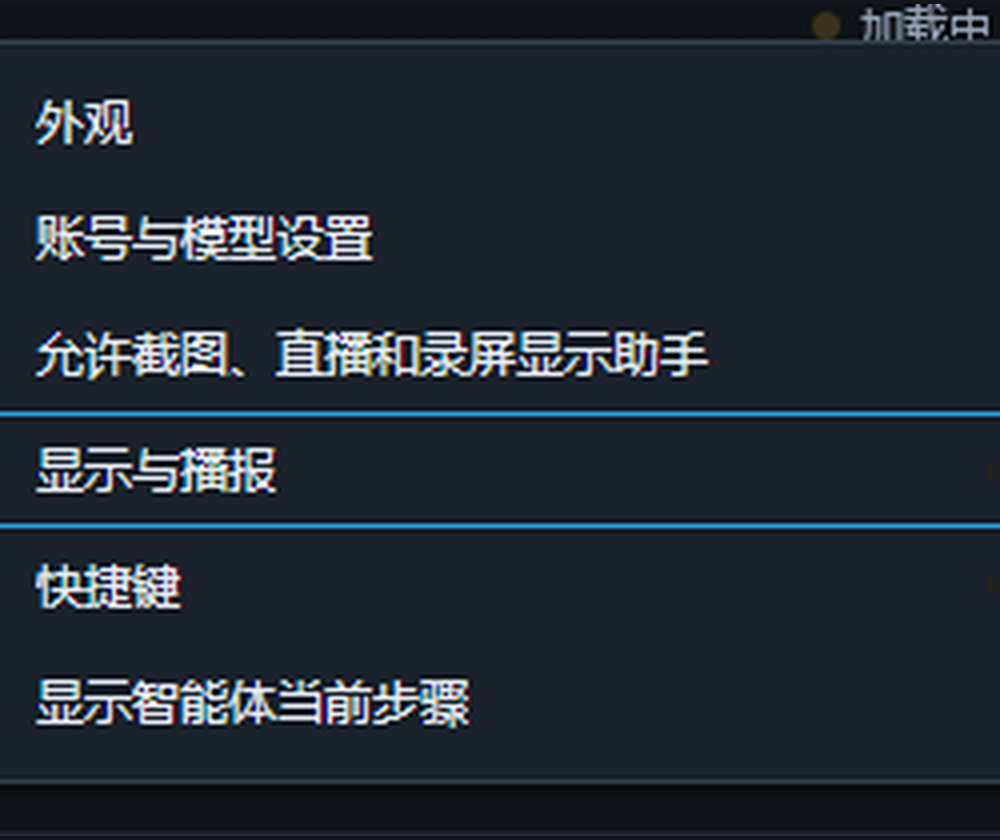
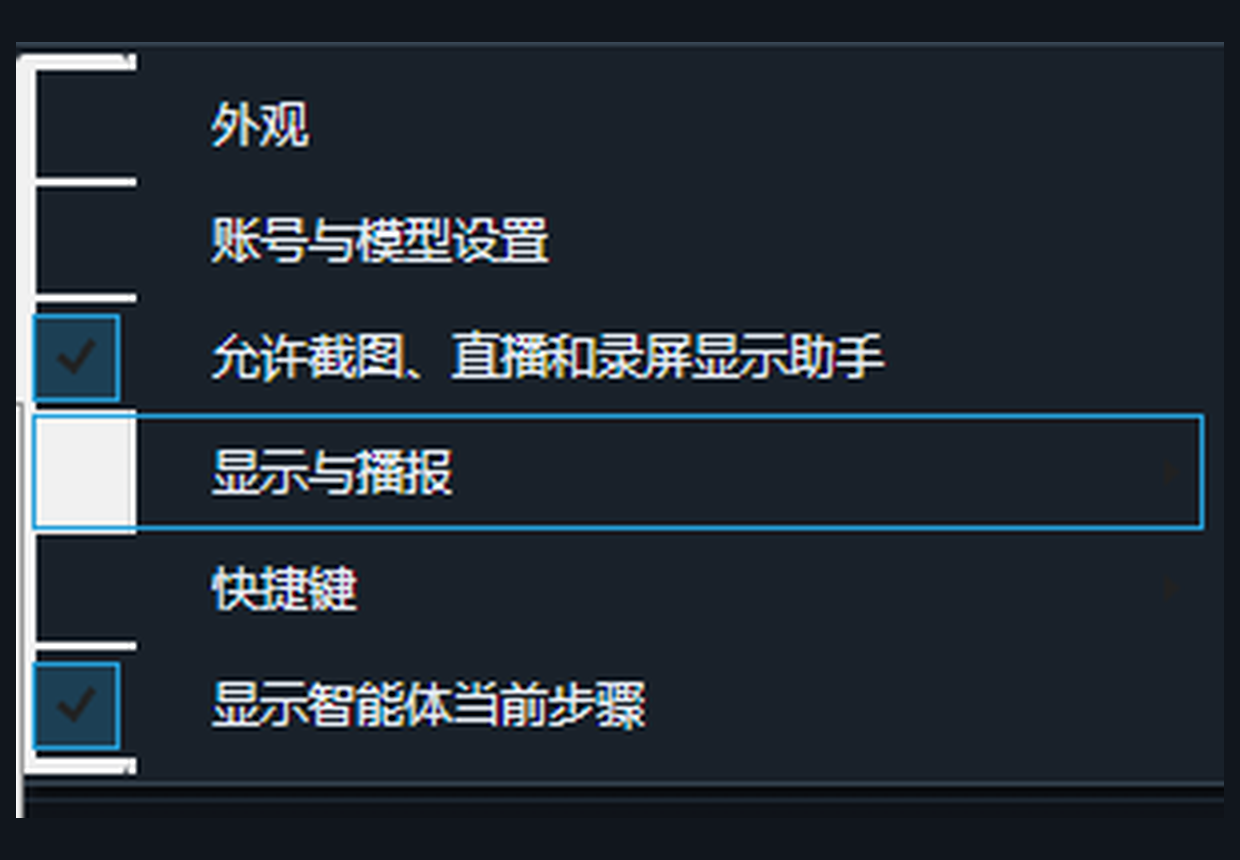
引导补“显示模式”一步，并把悬浮窗设置图换成更清晰的一版
- 从玩家提供的真实截图里分别裁出：齿轮设置菜单、左侧显示模式列表（大框/窄条/静默小球/
  字幕两行/窄条横向滚动/角色与语音），两张都是真实界面，不含聊天内容
- welcome.html 新增「显示模式」步骤，说明各模式用途与快捷键
- server 允许清单与打包清单同步加入 overlay-modes
- 用例 6 项全绿；线上两张图均返回 200

Changed region(s): [[0.0, 0.031, 1.0, 0.9595], [0.0, 0.9905, 1.0, 1.0], [0.806, 0.0, 1.0, 0.0619]]

diff --git a/tools/dsh-onboarding/welcome.html b/tools/dsh-onboarding/welcome.html
@@ -117,7 +117,10 @@ const STEPS = [
    note:'小球可以拖动位置；Ctrl+Alt+←/→ 切换页面，Ctrl+Alt+↓ 展开。'},
   {image:'overlay-settings.png', name:'悬浮窗设置', title:'悬浮窗设置：外观、显示与播报、快捷键',
    description:'点标题栏右侧的齿轮打开设置：外观、账号与模型设置、允许截图/直播/录屏显示助手、显示与播报、快捷键，以及“显示智能体当前步骤”开关（就是战况页顶部那行过程）。',
-   note:'齿轮左侧的列表是显示模式：大框、窄条、静默小球、字幕两行、窄条横向滚动；旁边还能切角色与语音音色。'}
+   note:'齿轮左侧的列表是显示模式：大框、窄条、静默小球、字幕两行、窄条横向滚动；旁边还能切角色与语音音色。'},
+  {image:'overlay-modes.png', name:'显示模式', title:'显示模式：大框、窄条、静默小球、字幕',
+   description:'齿轮左边的列表就是显示模式，点一下就切换：大框看完整过程，窄条只占一条，静默小球彻底不挡视野，字幕两行向上推进适合直播，窄条横向滚动适合超宽屏。最后一项可切角色与语音音色。',
+   note:'快捷键：Ctrl+Alt+↑ 收起、Ctrl+Alt+↓ 展开、Ctrl+Alt+←/→ 切换页面。'}
 ];
 
 const stage = document.getElementById('stage');
